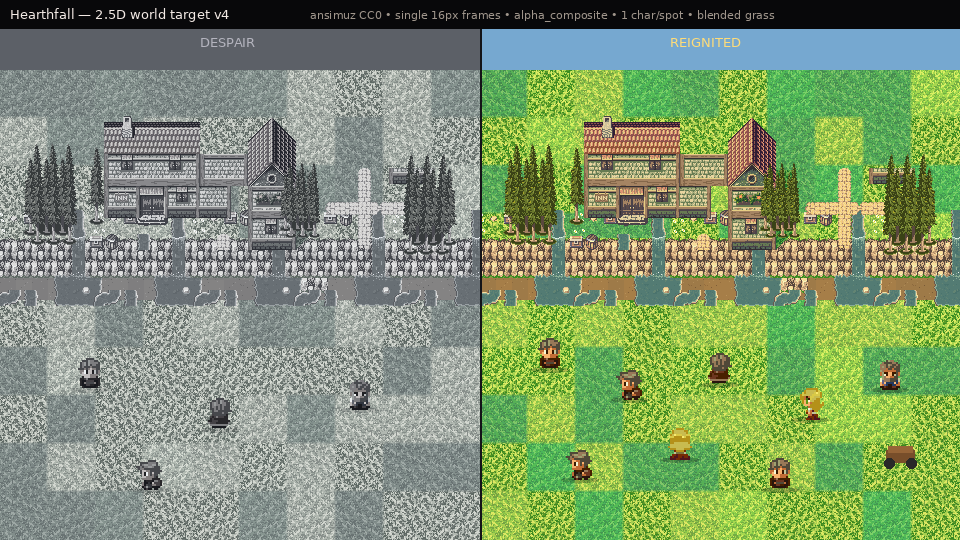
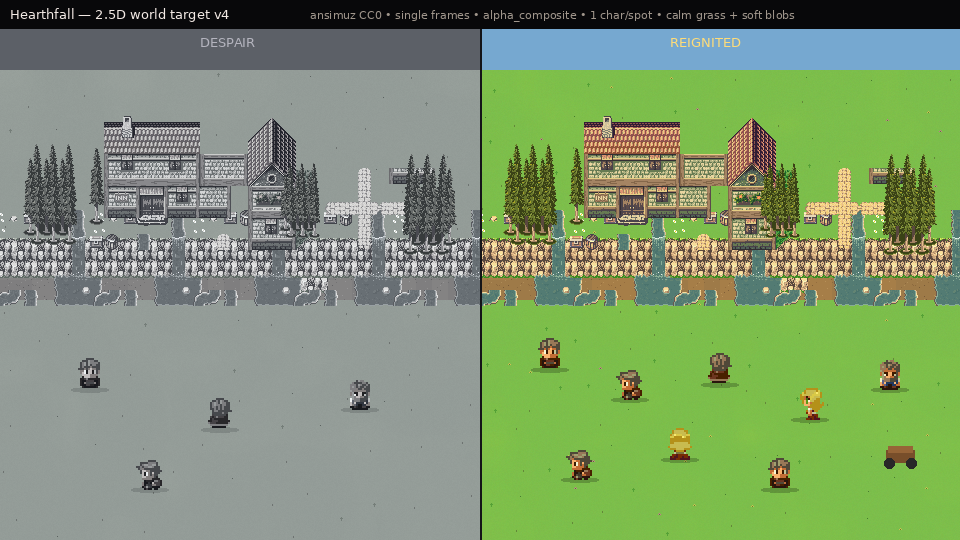
fix(prism): calm low-noise grass for v4 world-target mockup
Replace checkerboard variant tiling with calm base fill, soft irregular
noise-mask blobs, and sparse poisson-disk tufts/flowers. Regenerate
docs/art/mockups/2.5d-world-target-v4.png.

diff --git a/scripts/art/assemble-world-target-v4.py b/scripts/art/assemble-world-target-v4.py
@@ -4,7 +4,7 @@
 Root causes fixed:
 - hero/npc vendor sheets are 3×4 grids of 16×16 frames; v3 pasted whole sheets → stacks
 - RGB paste / black fill → black boxes; we only alpha_composite RGBA
-- single grass tile repeat → seams; we wang-hash multiple variants + edge blend
+- calm low-noise grass base + soft noise-mask blobs + sparse poisson tufts (no checkerboard)
 - despair desaturates RGB only (alpha preserved)
 """
 from __future__ import annotations
@@ -103,60 +103,107 @@ def extract_components(tiles_path: Path) -> dict[str, Image.Image]:
     return out
 
 
-def grass_variants() -> list[Image.Image]:
-    vars_: list[Image.Image] = []
+def _seed_rng(seed: bytes) -> np.random.Generator:
+    h = hashlib.md5(seed).digest()
+    return np.random.default_rng(int.from_bytes(h[:8], "little"))
+
+
+def calm_grass_mean() -> tuple[int, int, int]:
+    """Average ansimuz grass into one calm base RGB (low visual noise)."""
+    samples = []
     for name in ("ansimuz-grass-tile.png", "ansimuz-grass-tile-2.png", "ansimuz-grass-tile-3.png"):
-        g = load_rgba(VENDOR / name)
-        assert g.size == (GT, GT)
-        vars_.append(g)
-    # Extra variants via light channel shift + flips (same tile family → soft seams)
-    base = vars_[:]
-    for i, g in enumerate(base):
-        arr = np.array(g, dtype=np.int16)
-        arr[:, :, 1] = np.clip(arr[:, :, 1] + (i + 1) * 4, 0, 255)
-        arr[:, :, 0] = np.clip(arr[:, :, 0] - i * 2, 0, 255)
-        vars_.append(Image.fromarray(arr.astype(np.uint8), "RGBA"))
-        vars_.append(g.transpose(Image.Transpose.FLIP_LEFT_RIGHT))
-        vars_.append(g.transpose(Image.Transpose.FLIP_TOP_BOTTOM))
-    return vars_
+        arr = np.array(load_rgba(VENDOR / name), dtype=np.float32)
+        samples.append(arr[:, :, :3].mean(axis=(0, 1)))
+    mean = np.mean(samples, axis=0)
+    return int(mean[0]), int(mean[1]), int(mean[2])
 
 
-def blend_tile(a: Image.Image, b: Image.Image, edge: str) -> Image.Image:
-    """1–2px edge blend toward neighbor variant to break hard seams."""
-    aa = np.array(a, dtype=np.float32)
-    bb = np.array(b, dtype=np.float32)
-    out = aa.copy()
-    if edge == "right":
-        for i, w in enumerate((0.65, 0.35)):
-            x = GT - 1 - i
-            out[:, x] = aa[:, x] * (1 - w) + bb[:, x] * w
-    elif edge == "bottom":
-        for i, w in enumerate((0.65, 0.35)):
-            y = GT - 1 - i
-            out[y, :] = aa[y, :] * (1 - w) + bb[y, :] * w
-    return Image.fromarray(np.clip(out, 0, 255).astype(np.uint8), "RGBA")
+def _lowfreq_noise(h: int, w: int, rng: np.random.Generator, scale: int = 48) -> np.ndarray:
+    """Soft irregular field in [0,1] — no square tile structure."""
+    sh, sw = max(2, h // scale + 2), max(2, w // scale + 2)
+    small = rng.random((sh, sw))
+    # Upsample with bilinear via PIL
+    im = Image.fromarray((small * 255).astype(np.uint8), "L")
+    big = im.resize((w, h), Image.Resampling.BILINEAR)
+    return np.array(big, dtype=np.float32) / 255.0
 
 
-def tile_grass(canvas: Image.Image, variants: list[Image.Image], region, seed: bytes) -> None:
+def paint_calm_grass(canvas: Image.Image, region, seed: bytes, alive: bool) -> None:
+    """Fill region with calm base + soft blob tint + sparse organic tufts (no checkerboard)."""
     x0, y0, x1, y1 = region
-    n = len(variants)
-    # Precompute index grid
-    cols = list(range(x0, x1, GT))
-    rows = list(range(y0, y1, GT))
-    idx = {}
-    for gy, y in enumerate(rows):
-        for gx, x in enumerate(cols):
-            h = hashlib.md5(seed + bytes([gx & 255, gy & 255])).digest()
-            idx[(gx, gy)] = h[0] % n
-    for gy, y in enumerate(rows):
-        for gx, x in enumerate(cols):
-            t = variants[idx[(gx, gy)]]
-            # blend toward right/bottom neighbors
-            if (gx + 1, gy) in idx:
-                t = blend_tile(t, variants[idx[(gx + 1, gy)]], "right")
-            if (gx, gy + 1) in idx:
-                t = blend_tile(t, variants[idx[(gx, gy + 1)]], "bottom")
-            paste_alpha(canvas, t, (x, y))
+    w, h = x1 - x0, y1 - y0
+    if w <= 0 or h <= 0:
+        return
+    rng = _seed_rng(seed)
+    br, bg, bb = calm_grass_mean()
+    # Slightly greener/calmer for reignited; cooler for despair base (desat later)
+    if alive:
+        br, bg, bb = br - 4, min(255, bg + 6), bb - 2
+    else:
+        br, bg, bb = br - 2, bg - 2, bb + 2
+
+    base = np.zeros((h, w, 4), dtype=np.float32)
+    base[:, :, 0] = br
+    base[:, :, 1] = bg
+    base[:, :, 2] = bb
+    base[:, :, 3] = 255
+    # Micro noise ±2 (not tileable pattern)
+    micro = rng.integers(-2, 3, size=(h, w, 3))
+    base[:, :, :3] = np.clip(base[:, :, :3] + micro, 0, 255)
+
+    # Soft irregular variant blobs via low-freq noise mask (not square patches)
+    n1 = _lowfreq_noise(h, w, rng, scale=56)
+    n2 = _lowfreq_noise(h, w, rng, scale=36)
+    blob = np.clip((n1 - 0.45) * 2.2, 0, 1) * 0.55 + np.clip((n2 - 0.55) * 1.8, 0, 1) * 0.35
+    # Warm patch tint vs cool moss tint
+    warm = np.array([18, 10, -6], dtype=np.float32)
+    cool = np.array([-8, 6, 4], dtype=np.float32)
+    tint = warm[None, None, :] * blob[:, :, None] + cool[None, None, :] * (1.0 - blob)[:, :, None] * 0.35
+    # Only apply where blob strength is meaningful — soft edges already from bilinear noise
+    strength = np.clip(blob * 0.85 + 0.15, 0, 1)[:, :, None]
+    base[:, :, :3] = np.clip(base[:, :, :3] + tint * strength * 0.55, 0, 255)
+
+    layer = Image.fromarray(base.astype(np.uint8), "RGBA")
+    paste_alpha(canvas, layer, (x0, y0))
+
+    # Sparse organic detail — poisson-ish (min distance), not grid
+    min_dist = 22 if alive else 28
+    count = max(4, (w * h) // (min_dist * min_dist * 3))
+    pts: list[tuple[int, int]] = []
+    attempts = 0
+    while len(pts) < count and attempts < count * 40:
+        attempts += 1
+        px = int(rng.integers(2, max(3, w - 2)))
+        py = int(rng.integers(2, max(3, h - 2)))
+        ok = True
+        for qx, qy in pts:
+            if (px - qx) ** 2 + (py - qy) ** 2 < min_dist * min_dist:
+                ok = False
+                break
+        if ok:
+            pts.append((px, py))
+
+    d = ImageDraw.Draw(canvas)
+    for px, py in pts:
+        ax, ay = x0 + px, y0 + py
+        kind = int(rng.integers(0, 5))
+        if kind == 0:
+            # short tuft
+            col = (max(0, br - 20), min(255, bg + 12), max(0, bb - 10), 200)
+            d.line([(ax, ay), (ax, ay - 3)], fill=col, width=1)
+            d.point([(ax - 1, ay - 2), (ax + 1, ay - 2)], fill=col)
+        elif kind == 1 and alive:
+            # tiny flower
+            petal = (240, 220, 90, 220) if rng.random() > 0.4 else (230, 140, 160, 220)
+            d.point([(ax, ay), (ax - 1, ay), (ax + 1, ay), (ax, ay - 1)], fill=petal)
+            d.point([(ax, ay)], fill=(80, 140, 50, 255))
+        elif kind == 2:
+            # darker speck
+            d.point([(ax, ay)], fill=(max(0, br - 30), max(0, bg - 20), max(0, bb - 15), 180))
+        else:
+            # pale blade
+            col = (min(255, br + 25), min(255, bg + 20), min(255, bb + 8), 160)
+            d.point([(ax, ay), (ax, ay - 1)], fill=col)
 
 
 def dirt_band(canvas: Image.Image, y0: int, y1: int, seed: bytes, dirt_stamp: Image.Image | None) -> None:
@@ -174,15 +221,14 @@ def dirt_band(canvas: Image.Image, y0: int, y1: int, seed: bytes, dirt_stamp: Im
 
 def build_half(alive: bool, comps: dict[str, Image.Image], chars: list[Image.Image]) -> Image.Image:
     half = Image.new("RGBA", (HALF, H), (0, 0, 0, 0))
-    seed = b"alive-v4" if alive else b"despair-v4"
-    variants = grass_variants()
+    seed = b"alive-v4b" if alive else b"despair-v4b"
 
     sky = (118, 168, 208, 255) if alive else (88, 98, 108, 255)
     ImageDraw.Draw(half).rectangle([0, HDR, HALF, 100], fill=sky)
 
-    tile_grass(half, variants, (0, 70, HALF, 250), seed + b"u")
+    paint_calm_grass(half, (0, 70, HALF, 250), seed + b"u", alive)
     dirt_band(half, 248, 248 + 56, seed, comps.get("dirt"))
-    tile_grass(half, variants, (0, 300, HALF, H), seed + b"l")
+    paint_calm_grass(half, (0, 300, HALF, H), seed + b"l", alive)
 
     # Cliff strip
     if "cliff" in comps:
@@ -279,7 +325,7 @@ def main() -> None:
     d.text((10, 6), "Hearthfall — 2.5D world target v4", fill=(242, 233, 228, 255), font=font)
     d.text(
         (310, 8),
-        "ansimuz CC0 • single 16px frames • alpha_composite • 1 char/spot • blended grass",
+        "ansimuz CC0 • single frames • alpha_composite • 1 char/spot • calm grass + soft blobs",
         fill=(160, 150, 140, 255),
         font=small,
     )
